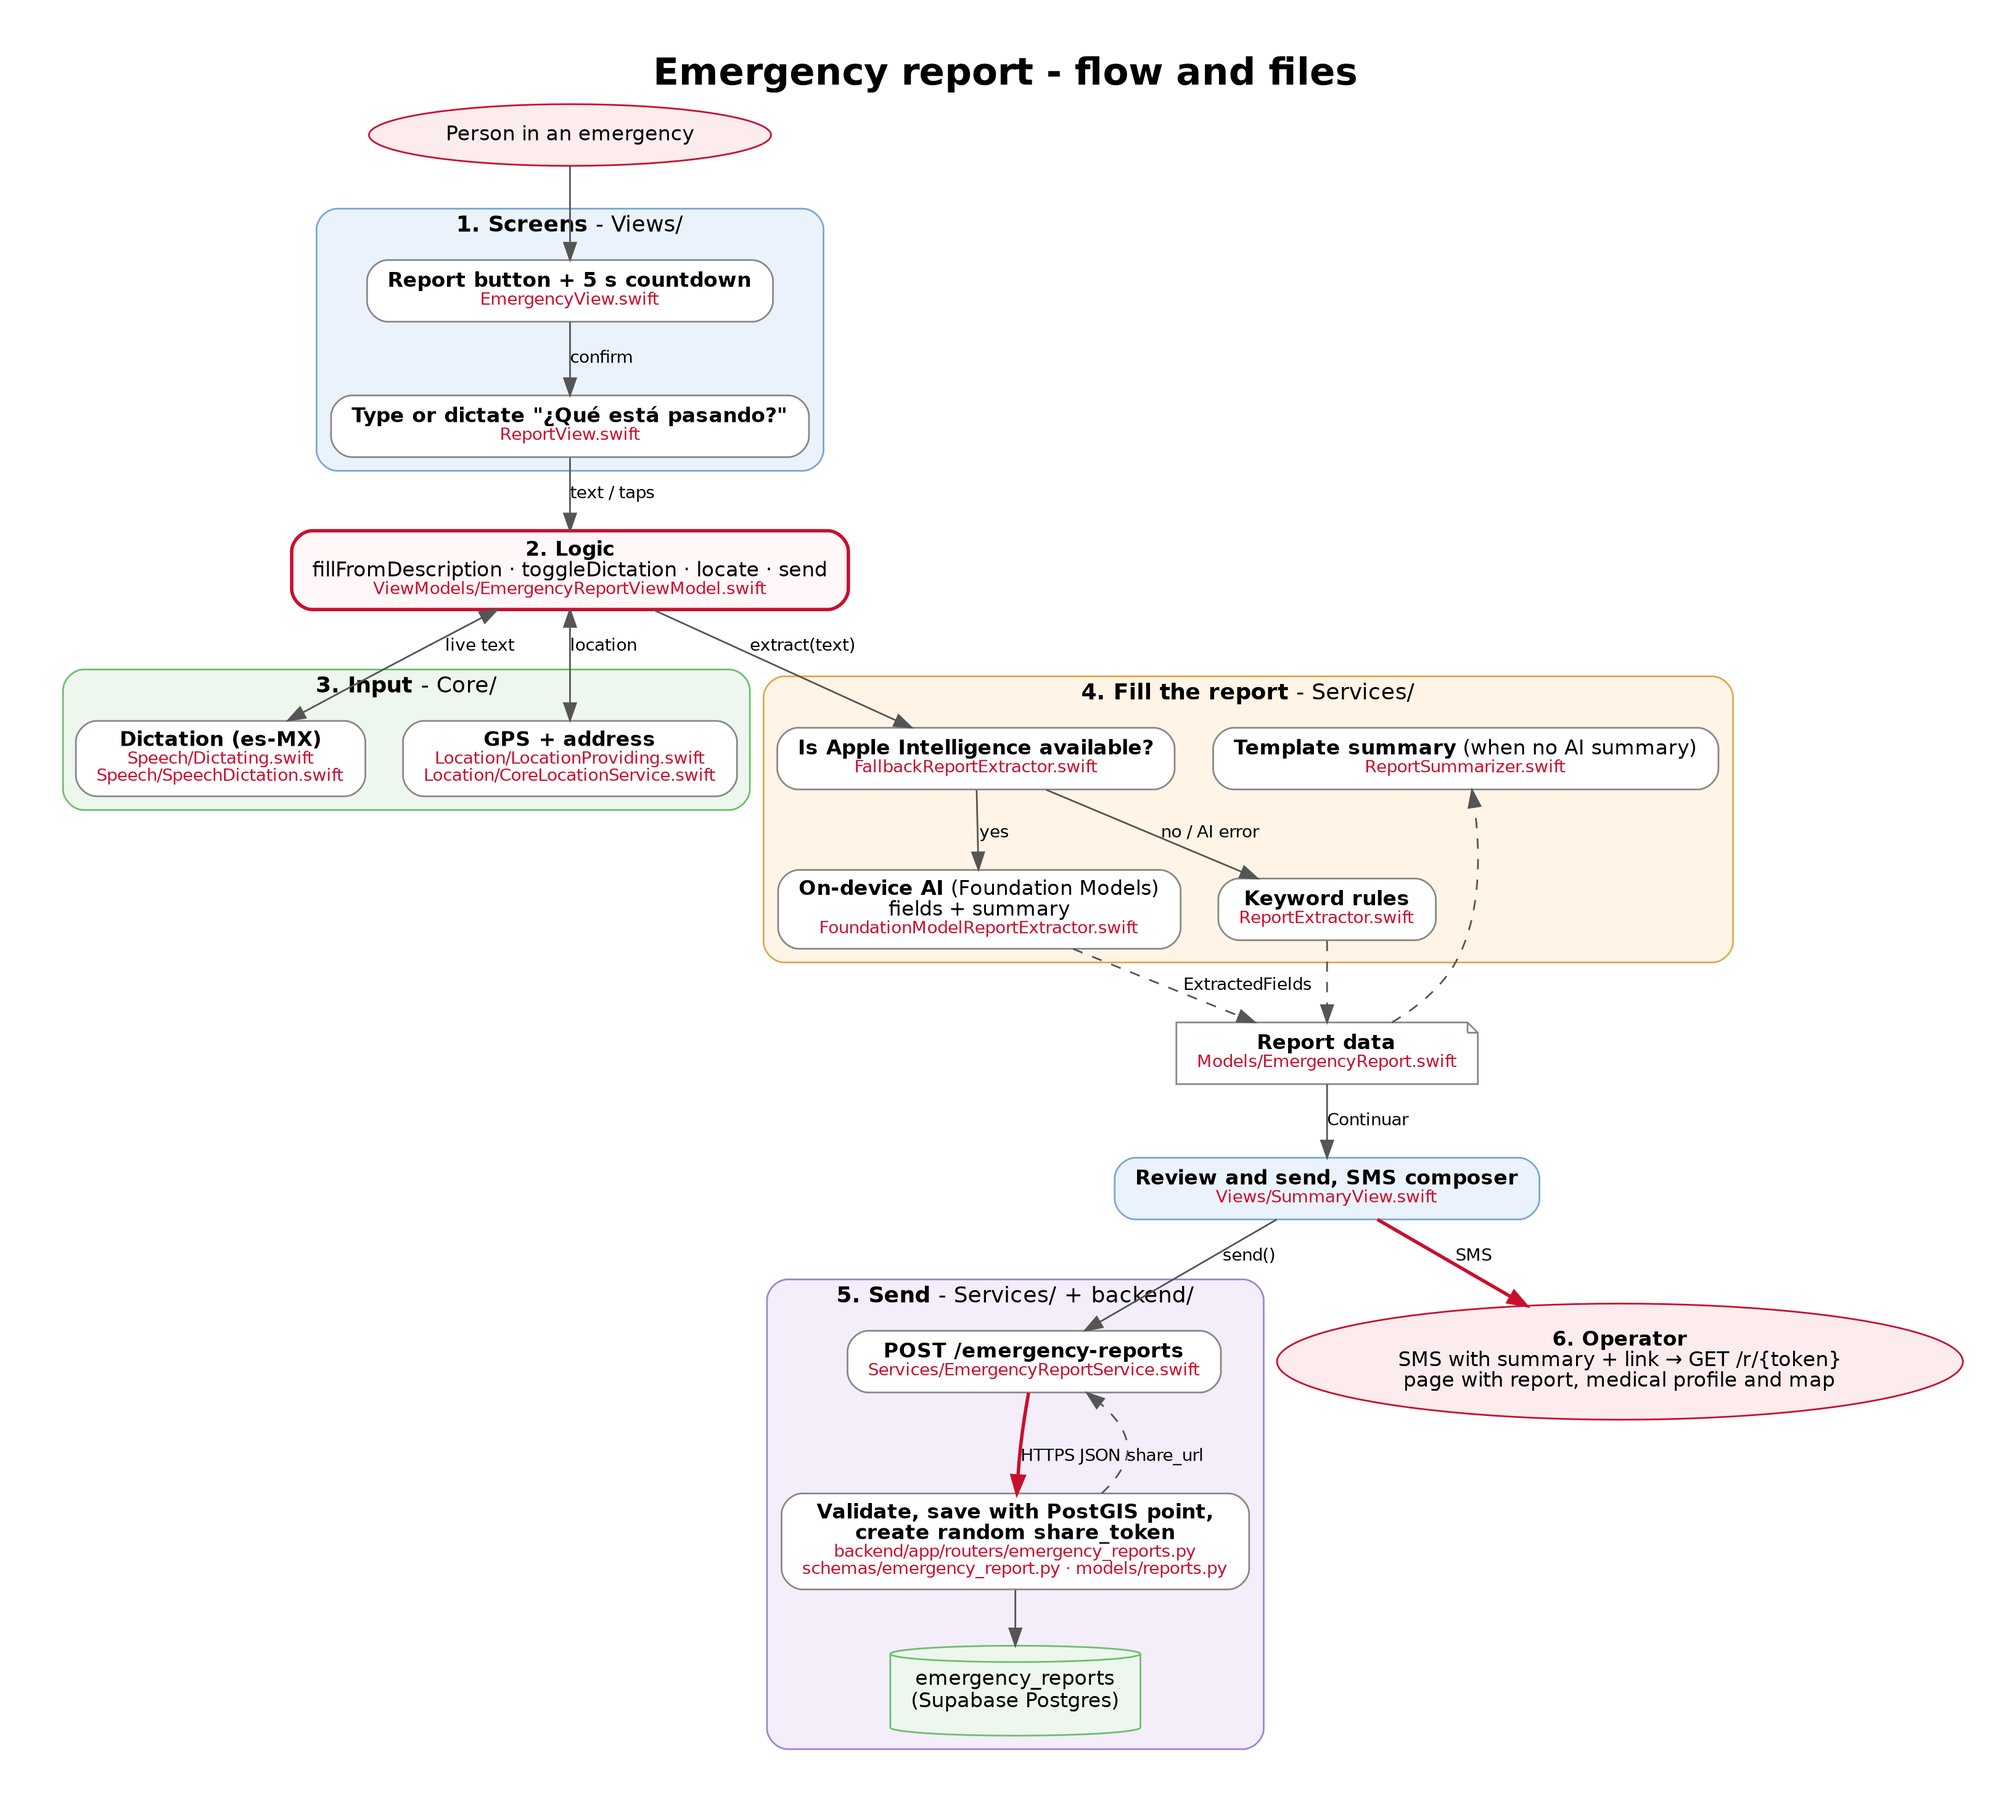
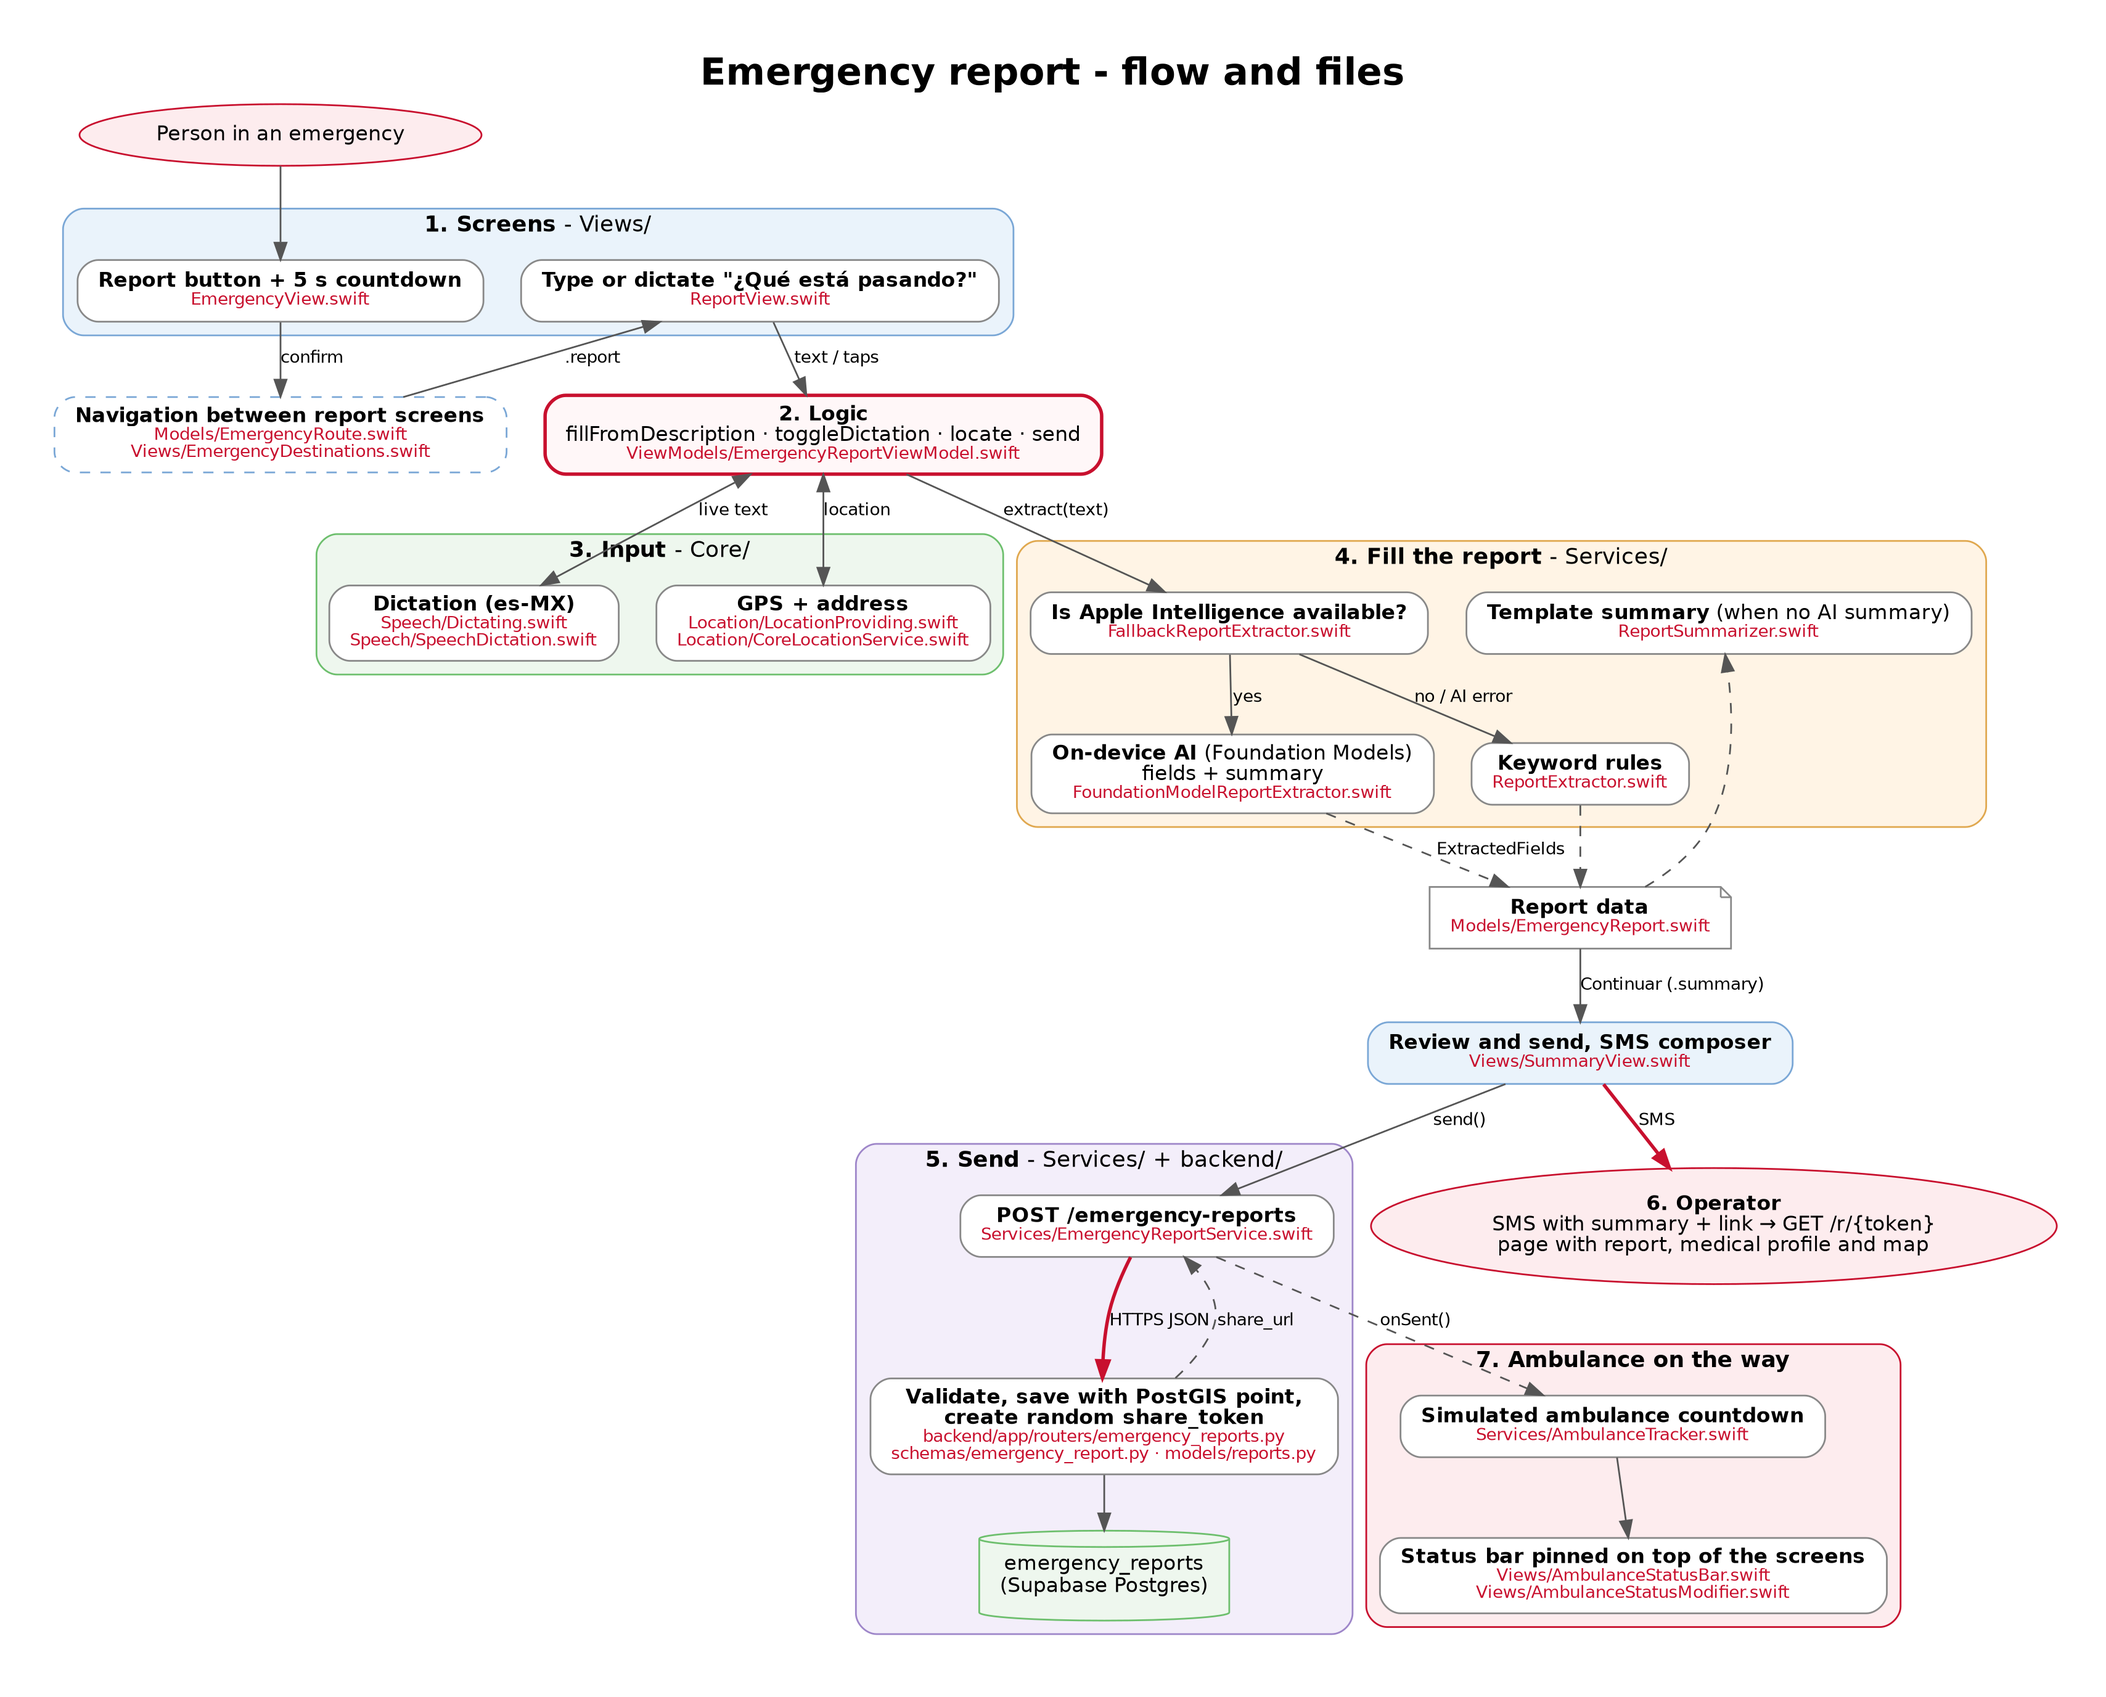
Add emergency report tests, test cases and full flow diagram

Changed region(s): [[0.031, 0.0312, 0.9595, 0.9688]]

diff --git a/CruzRojaTestsAprende/EmergencyReportTests.swift b/CruzRojaTestsAprende/EmergencyReportTests.swift
@@ -1,0 +1,194 @@
+import Foundation
+import Testing
+@testable import CruzRoja
+
+// Returns fixed fields, as the on-device model or the rules would
+@MainActor
+private final class StubExtractor: ReportExtracting {
+    var fields: ExtractedFields
+    var error: Error?
+
+    init(_ fields: ExtractedFields = ExtractedFields(), error: Error? = nil) {
+        self.fields = fields
+        self.error = error
+    }
+
+    func extract(_ text: String) async throws -> ExtractedFields {
+        if let error { throw error }
+        return fields
+    }
+}
+
+// Records what the view model sends
+private actor RecordingReportService: EmergencyReportServicing {
+    var medicalSummaries: [String?] = []
+    var summaries: [String] = []
+
+    func send(_ report: EmergencyReport, location: EmergencyLocation, summary: String, medicalSummary: String?) async throws -> SentReport {
+        medicalSummaries.append(medicalSummary)
+        summaries.append(summary)
+        return SentReport(id: "1", shareURL: "http://localhost:8000/r/abc")
+    }
+}
+
+private struct ModelFailure: Error {}
+
+private let monterrey = CurrentLocation(coordinate: .monterrey, address: "Av. Eugenio Garza Sada 2501", accuracyMeters: 5)
+
+@MainActor
+private func makeViewModel(extractor: ReportExtracting? = nil,
+                           service: EmergencyReportServicing = RecordingReportService(),
+                           location: CurrentLocation? = monterrey,
+                           dictation: Dictating? = nil) -> EmergencyReportViewModel {
+    EmergencyReportViewModel(
+        service: service,
+        extractor: extractor ?? StubExtractor(),
+        locationProvider: FixedLocationProvider(location: location),
+        dictation: dictation ?? SilentDictation(),
+        medicalSummary: { "Sangre O+ · Alergias: Penicilina" }
+    )
+}
+
+@Suite("Rule-based extraction")
+struct RuleBasedExtractionTests {
+    let rules = RuleBasedReportExtractor()
+
+    @Test func fillsFieldsFromDemoDescription() {
+        let fields = rules.fields(from: EmergencyReport.demoDescription)
+        #expect(fields.reportingFor == .familyMember)
+        #expect(fields.patientName == "Abuela")
+        #expect(fields.reason == "Caída")
+        #expect(fields.place == "Casa habitación")
+        #expect(fields.injury == "Golpe en la cabeza")
+        #expect(fields.mentalState == "Confundido")
+        #expect(fields.breathing == "Normal")
+        #expect(fields.skin == "Pálida")
+    }
+
+    @Test func matchesWithoutAccentsOrCase() {
+        let fields = rules.fields(from: "MI PAPÁ SE DESMAYÓ EN LA CALLE Y NO RESPIRA")
+        #expect(fields.patientName == "Papa")
+        #expect(fields.reason == "Desmayo")
+        #expect(fields.place == "Vía pública")
+        #expect(fields.breathing == "No respira")
+    }
+
+    @Test(arguments: [("hay 3 heridos en el choque", 3), ("dos personas atropelladas", 2)])
+    func countsInjuredPeople(text: String, count: Int) {
+        #expect(rules.fields(from: text).injuredCount == count)
+    }
+
+    @Test func returnsEmptyFieldsForUnrelatedText() {
+        #expect(rules.fields(from: "hola, ¿cómo estás?").isEmpty)
+    }
+}
+
+@Suite("Report merging and summary")
+struct ReportMergingTests {
+    @Test func keepsFieldsTheExtractorDidNotDetect() {
+        var report = EmergencyReport()
+        report.reference = "Casa azul, portón negro"
+        report.reason = "Dolor"
+        let merged = report.merging(ExtractedFields(reason: "Caída", skin: "Pálida"))
+        #expect(merged.reason == "Caída")
+        #expect(merged.skin == "Pálida")
+        #expect(merged.reference == "Casa azul, portón negro")
+    }
+
+    @Test func summarizesFilledFields() {
+        var report = EmergencyReport()
+        report.patientName = "Abuela"
+        report.reason = "Caída"
+        report.place = "Casa habitación"
+        report.injury = "Golpe en la cabeza"
+        report.mentalState = "Confundido"
+        report.breathing = "Normal"
+        report.skin = "Pálida"
+        #expect(ReportSummarizer.summarize(report)
+            == "Abuela: Caída en casa habitación, 1 lesionado con golpe en la cabeza; confundido, respira normal, piel pálida.")
+    }
+}
+
+@MainActor
+@Suite("Emergency report view model")
+struct EmergencyReportViewModelTests {
+    @Test func usesTheAISummaryAndSaysTheAIFilledIt() async {
+        var fields = ExtractedFields(reason: "Caída", summary: "Abuela con caída en casa.")
+        fields.source = .ai
+        let viewModel = makeViewModel(extractor: StubExtractor(fields))
+        viewModel.report.description = "Mi abuela se cayó"
+
+        await viewModel.fillFromDescription()
+
+        #expect(viewModel.report.reason == "Caída")
+        #expect(viewModel.summary == "Abuela con caída en casa.")
+        #expect(viewModel.fillMessage == "Llenado con IA en el dispositivo. Revisa que esté correcto.")
+    }
+
+    @Test func explainsWhyRulesWereUsed() async {
+        var fields = ExtractedFields(reason: "Caída")
+        fields.source = .rules(reason: "activa Apple Intelligence en Ajustes")
+        let viewModel = makeViewModel(extractor: StubExtractor(fields))
+        viewModel.report.description = "se cayó"
+
+        await viewModel.fillFromDescription()
+
+        #expect(viewModel.fillMessage == "IA no disponible (activa Apple Intelligence en Ajustes). Se llenó con reglas básicas.")
+    }
+
+    @Test func asksToFillByHandWhenExtractionFails() async {
+        let viewModel = makeViewModel(extractor: StubExtractor(error: ModelFailure()))
+        viewModel.report.description = "texto"
+
+        await viewModel.fillFromDescription()
+
+        #expect(viewModel.fillMessage == "No se pudo llenar el reporte. Llena los campos a mano.")
+    }
+
+    @Test func manualEditDropsTheStaleAISummary() async {
+        var fields = ExtractedFields(reason: "Caída", summary: "Resumen de la IA.")
+        fields.source = .ai
+        let viewModel = makeViewModel(extractor: StubExtractor(fields))
+        viewModel.report.description = "se cayó"
+        await viewModel.fillFromDescription()
+
+        viewModel.report.reason = "Desmayo"
+
+        #expect(viewModel.aiSummary == nil)
+        #expect(viewModel.summary.hasPrefix("Desmayo"))
+    }
+
+    @Test func doesNotSendWithoutLocation() async {
+        let viewModel = makeViewModel(location: nil)
+        await viewModel.locate()
+
+        #expect(await viewModel.send() == false)
+        #expect(viewModel.errorMessage?.contains("ubicación") == true)
+    }
+
+    @Test func attachesMedicalProfileOnlyWhenReportingForMyself() async {
+        let service = RecordingReportService()
+        let viewModel = makeViewModel(service: service)
+        await viewModel.locate()
+
+        #expect(await viewModel.send())
+        viewModel.replaceReport(EmergencyReport(reportingFor: .someoneElse))
+        #expect(await viewModel.send())
+
+        #expect(await service.medicalSummaries == ["Sangre O+ · Alergias: Penicilina", nil])
+        #expect(viewModel.smsBody.hasSuffix("Ubicación: http://localhost:8000/r/abc"))
+    }
+
+    @Test func fillsTheReportWhenDictationStops() async {
+        let dictation = SilentDictation()
+        dictation.transcript = "mi abuela se cayó en la casa"
+        let viewModel = makeViewModel(extractor: RuleBasedReportExtractor(), dictation: dictation)
+
+        await viewModel.toggleDictation()
+        await viewModel.toggleDictation()
+
+        #expect(viewModel.report.description == "mi abuela se cayó en la casa")
+        #expect(viewModel.report.reason == "Caída")
+        #expect(viewModel.report.patientName == "Abuela")
+    }
+}

diff --git a/docs/emergency-report/README.md b/docs/emergency-report/README.md
@@ -17,13 +17,15 @@ A person reports an emergency, for themselves or someone else, by typing or dict
 4. **Send.** `SummaryView` calls `send()`. `EmergencyReportAPIService` posts to `POST /emergency-reports`, attaching the medical profile when the report is for the user.
 5. **Store.** The API validates the body (`EmergencyReportIn`) and saves it in `emergency_reports` with a PostGIS point. It then creates a random `share_token` and returns `share_url`.
 6. **Operator.** The app opens the SMS composer with the summary and the link. `GET /r/{token}` shows the report, the medical profile and an OpenStreetMap map.
+7. **Ambulance.** After sending, `onSent()` starts `AmbulanceTracker`, and `AmbulanceStatusBar` shows the time left on top of the following screens.
 
 ## Files
 
 | Layer | Files |
 |---|---|
-| Model | `CruzRoja/Features/Emergency/Models/EmergencyReport.swift` |
-| Screens | `Views/EmergencyView.swift`, `Views/ReportView.swift`, `Views/SummaryView.swift` |
+| Model | `CruzRoja/Features/Emergency/Models/EmergencyReport.swift`, `Models/EmergencyRoute.swift` |
+| Screens | `Views/EmergencyView.swift`, `Views/ReportView.swift`, `Views/SummaryView.swift`, `Views/EmergencyDestinations.swift` (navigation) |
+| Ambulance | `Services/AmbulanceTracker.swift`, `Views/AmbulanceStatusBar.swift`, `Views/AmbulanceStatusModifier.swift` |
 | Logic | `ViewModels/EmergencyReportViewModel.swift` |
 | AI and rules | `Services/FallbackReportExtractor.swift`, `Services/FoundationModelReportExtractor.swift`, `Services/ReportExtractor.swift`, `Services/ReportSummarizer.swift` |
 | Network | `Services/EmergencyReportService.swift` |
